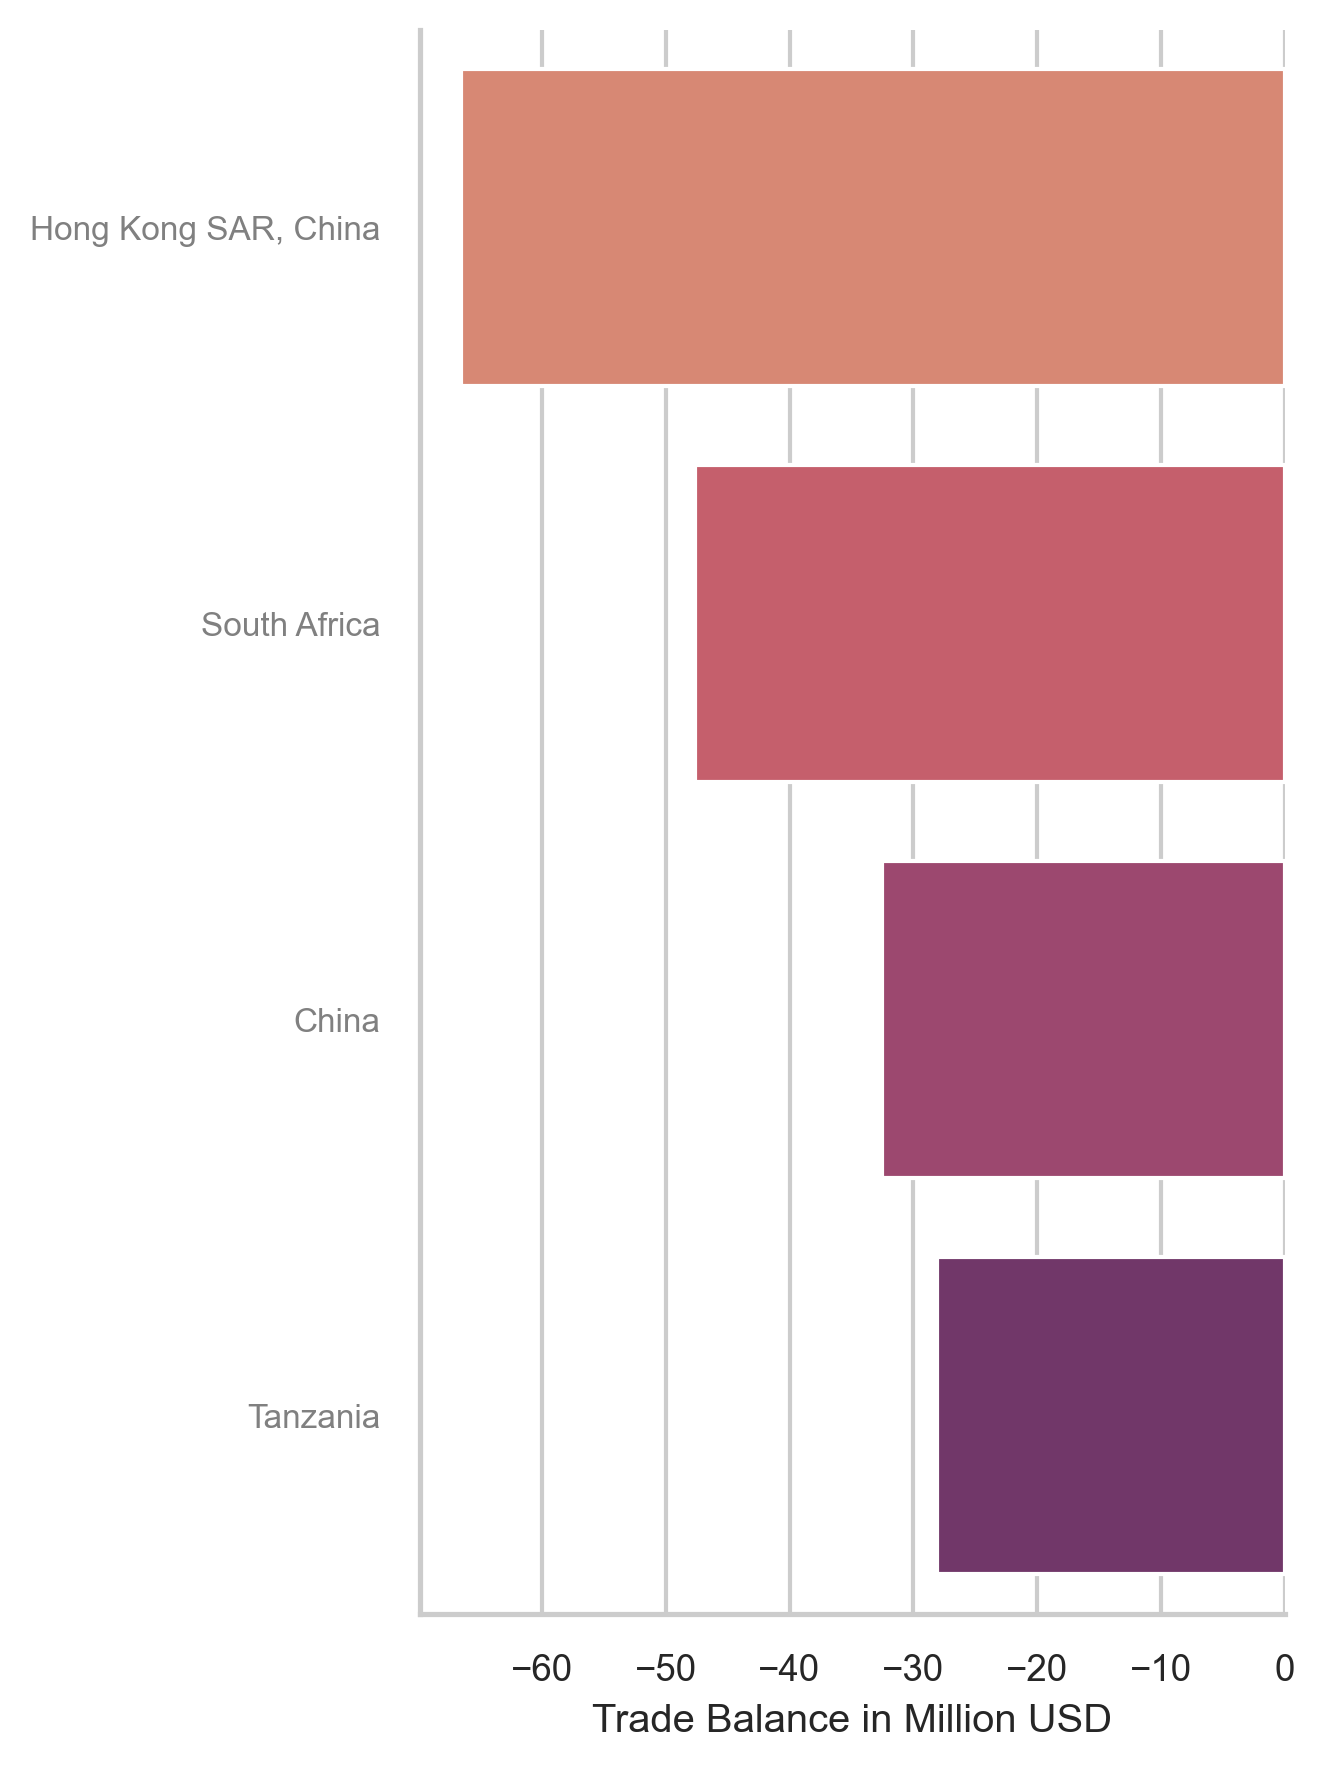
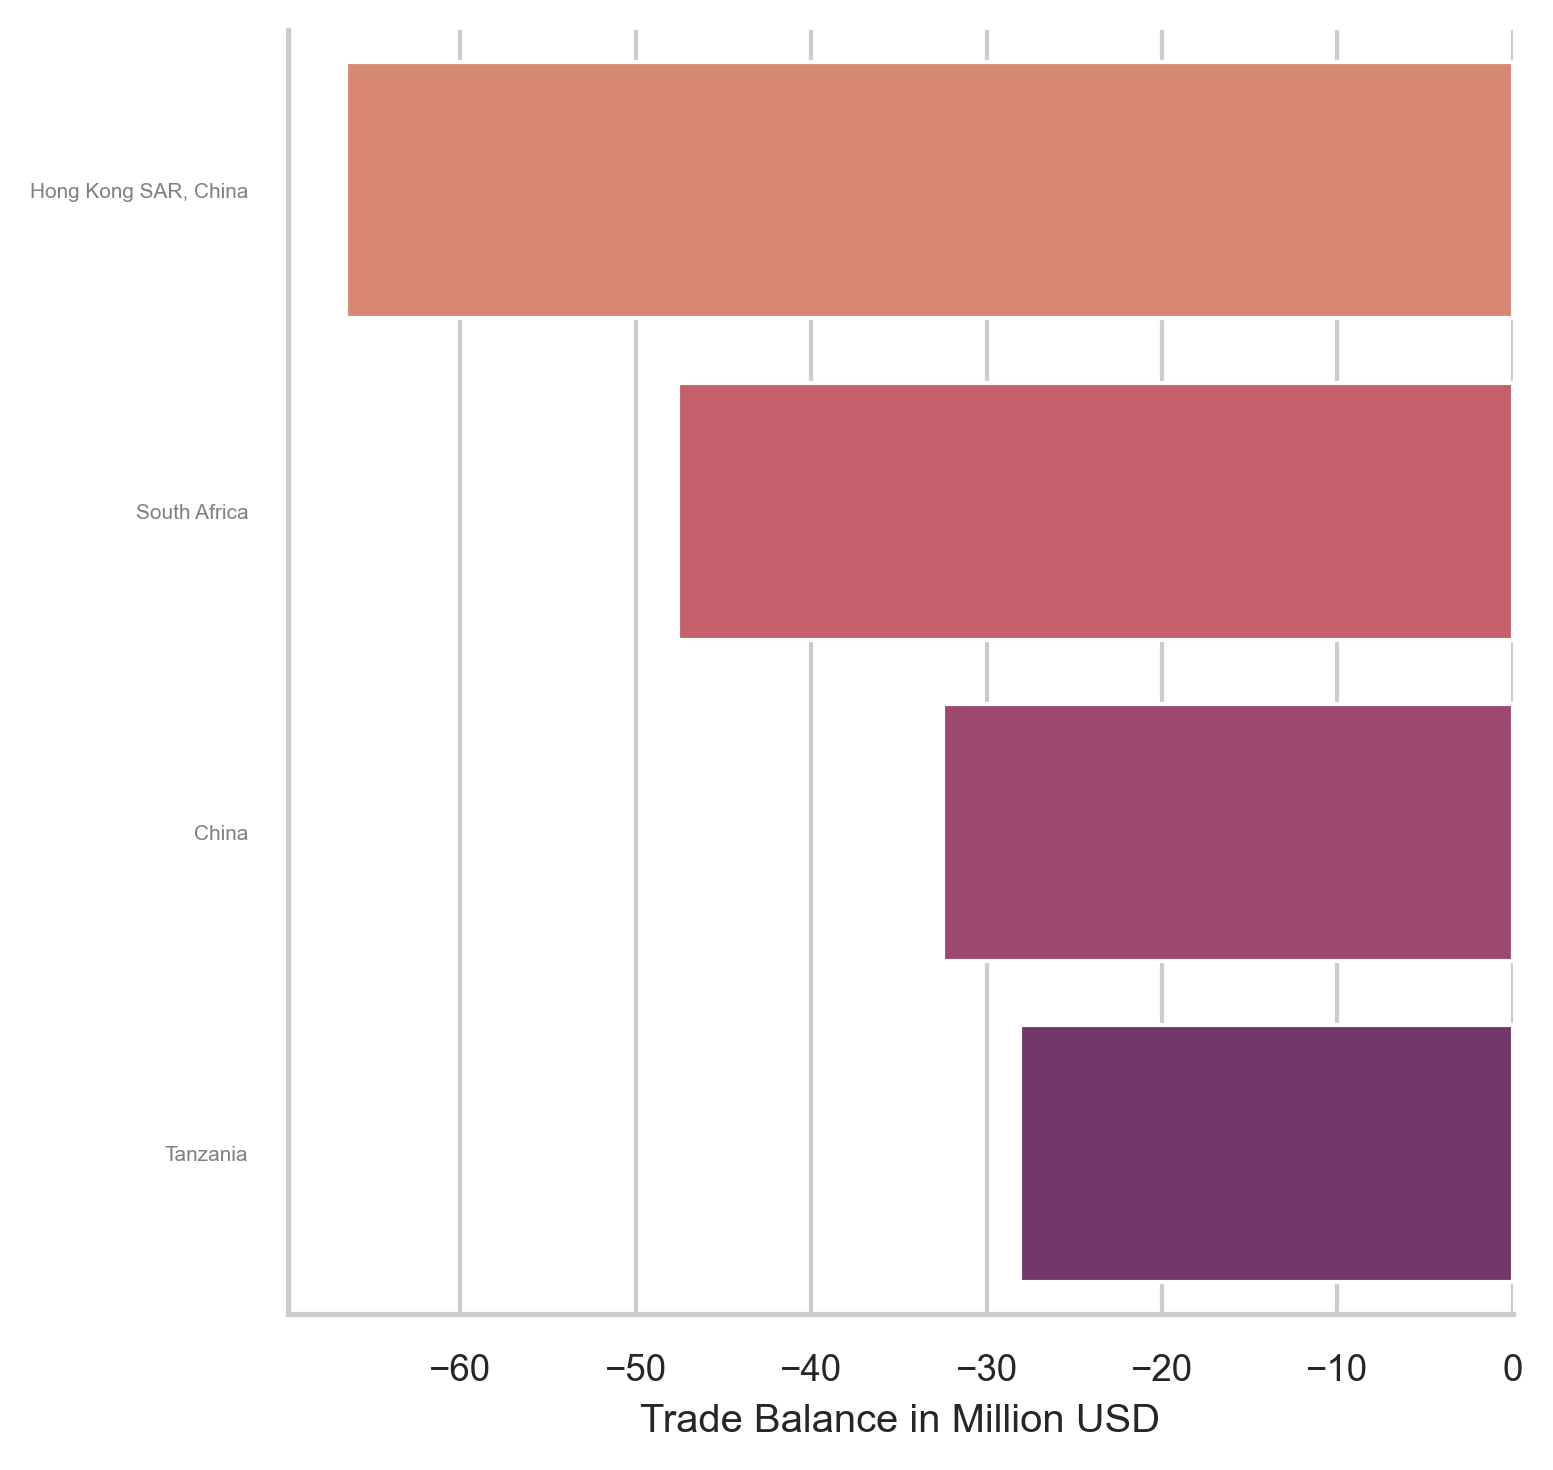
update rwa analysis

diff --git a/python/explore_energy_generation.py b/python/explore_energy_generation.py
@@ -63,12 +63,12 @@ print(rwa_df_bottom10.head(10))
 # Make the font human readable 
 sns.set(font_scale=0.8)
 sns.set_style("whitegrid")
-sns.catplot(x='trade_balance_millions', y='Country Name', data=rwa_df_bottom10, kind='bar', palette='flare', height=6, aspect=0.8)
+sns.catplot(x='trade_balance_millions', y='Country Name', data=rwa_df_bottom10, kind='bar', palette='flare', height=5, aspect=1.2)
 plt.title('')
 plt.xlabel('Trade Balance in Million USD')
 plt.ylabel('')
 # Seaborn decreasethe font size of y labels 
-plt.yticks(fontsize=8, color='grey')
+plt.yticks(fontsize=5, color='grey')
 #plt.show()
 plt.savefig('../output/rwanda_bottom_trade_partners' + '.png', dpi=300, bbox_inches='tight')
 
